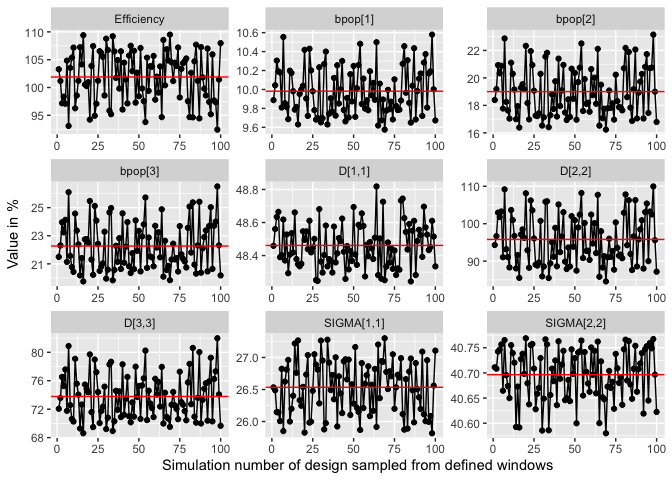
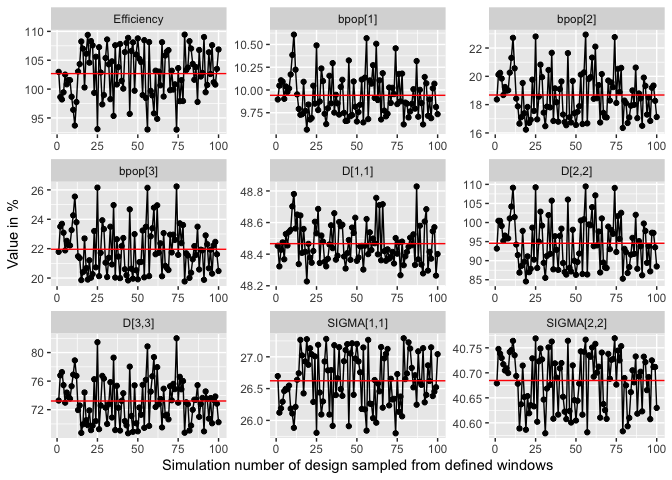
tweak logic in selecting times

diff --git a/script/optimal_design.md b/script/optimal_design.md
@@ -791,21 +791,21 @@ see(mod)
     . [ param ]
     . CL = 1, VMAX = 10, KM = 10, V1 = 8, Q = 10, V2 = 100
     . 
-    . [ CMT ] CENT PERIPH
+    . [ cmt ] CENT PERIPH
     . 
-    . [ MAIN ]
-    . double ke = CL/V1;
+    . [ main ]
+    . double ke  = CL/V1;
     . double k12 = Q/V1;
     . double k21 = Q/V2;
     . 
-    . [ ODE ]
+    . [ ode ]
     . double CP = CENT/V1;
     . 
     . dxdt_CENT = k21*PERIPH - k12*CENT - VMAX*CP/(KM + CP) - ke*CENT;
     . dxdt_PERIPH = k12*CENT - k21*PERIPH;
     . 
     . [ capture ]
-    . CP;
+    . CP
 
 ## `ff()`
 
@@ -834,17 +834,17 @@ ff <- function(model_switch, xt, parameters, poped.db) {
     amt = 0, 
     cmt = 1, 
     evid = 0, 
-    time = obs_time
+    time = sort(obs_time)
   )
   
   data <- arrange(bind_rows(dose,obs),time)
   
   mod <- param(mod, parameters)
   
-  out <- mrgsim_q(mod,data,recsort=4,output="matrix")
+  out <- mrgsim_q(mod,data,output="matrix")
   
-  out <- out[data$evid==0,"CP",drop=FALSE]
-
+  out <- out[data$evid==0,"CP",drop=FALSE][match(obs_time,obs$time),]
+  
   return(list(y = out, poped.db = poped.db))
 }
 ```
